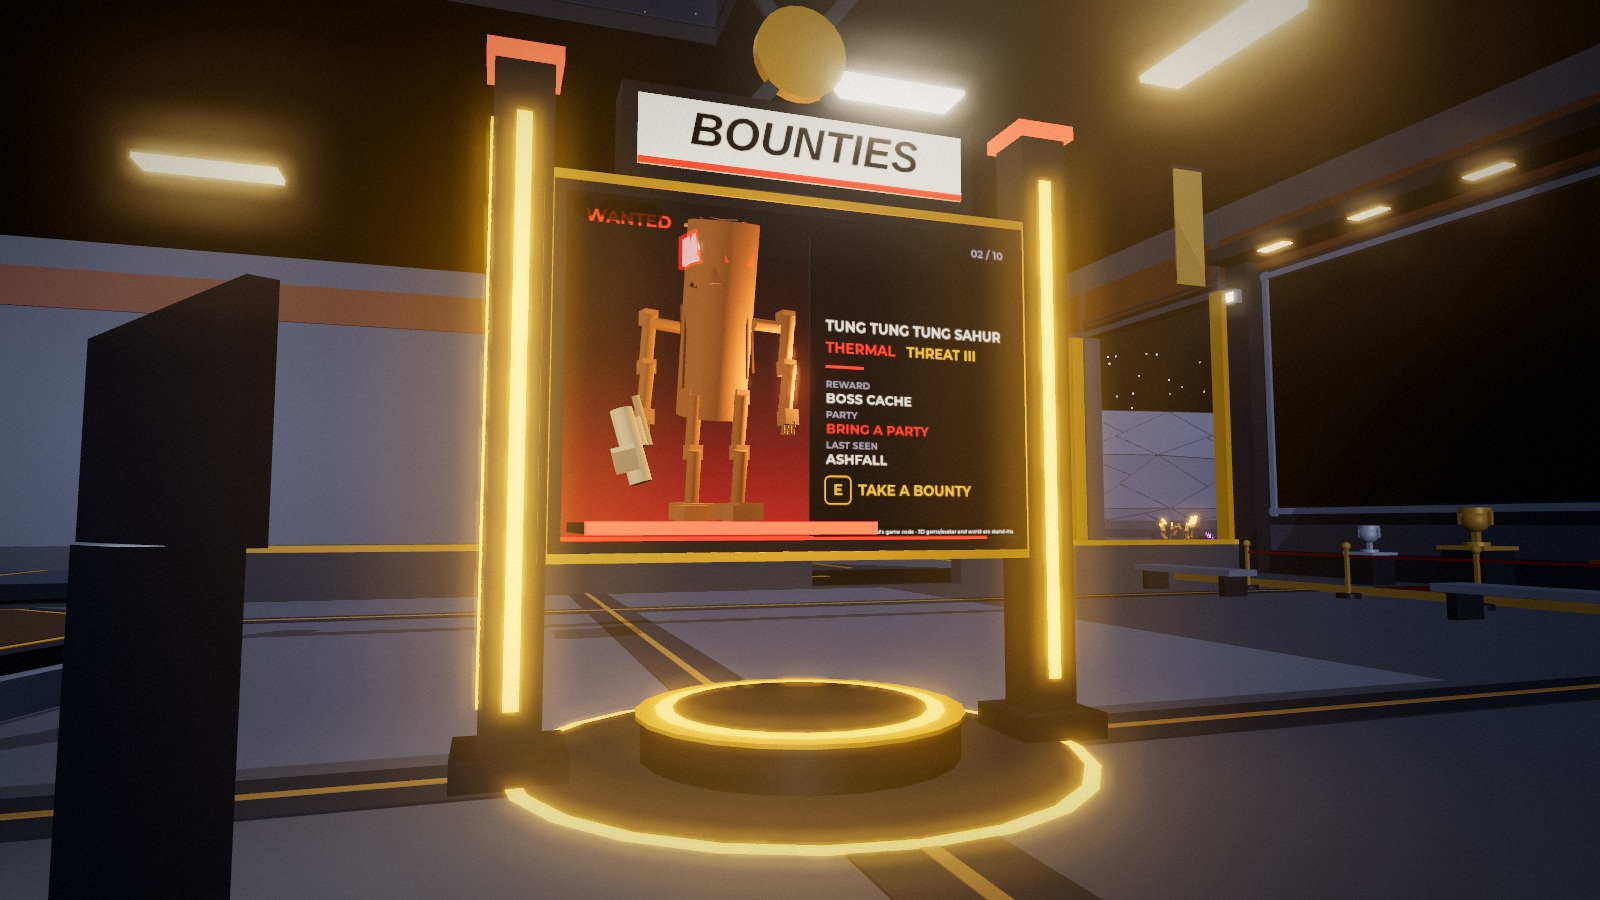
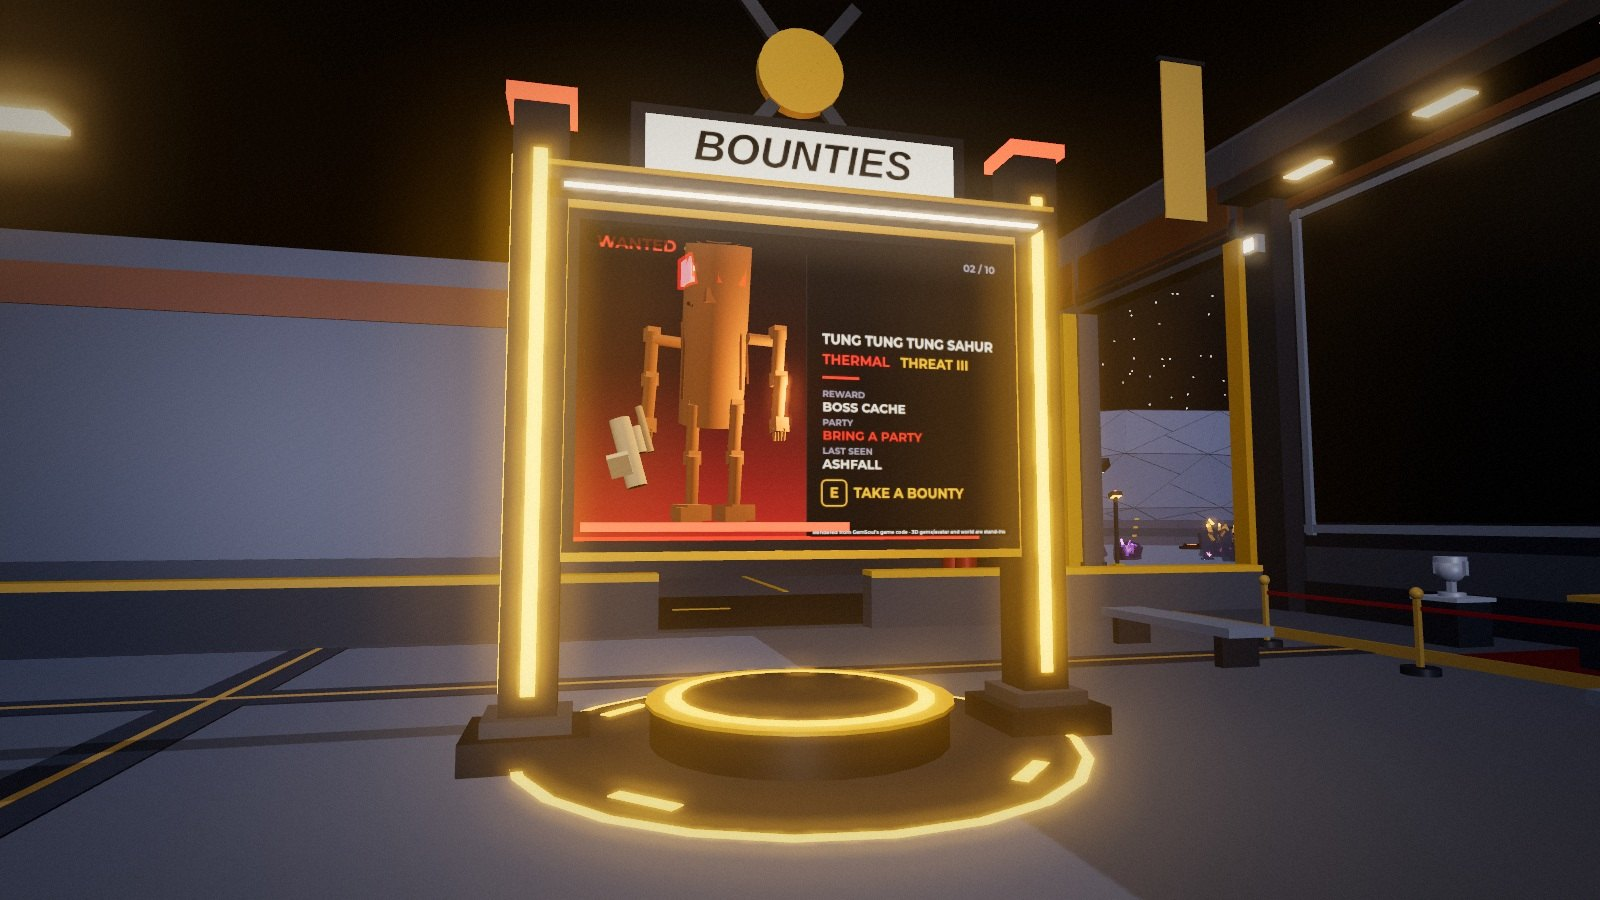
Bounty board: moved to the way in from the garage, 1.3x bigger, a lit visor
The board leaves the band crossing by INFO-9, off to the side of where
players walk in, for the open floor in front of you as you come through
the garage barrier (46, 10 in the Shelter's frame), between the Kennel
and the Hall of Fame, a face to the garage and a face to the main door.
It's built 1.3 times the size (BountyBoard.Scale: the screen 12.5 studs
wide, the boss on its ledge 7 studs tall, its lights' reach with it),
on stepped pylon feet, with a visor over the screen lit along its lip
carrying the BOUNTIES lightbox, and an amber mark at each corner of its
pad. The test checks the new spot, that it's bigger, and that its pad
stays clear of the rope and off the floor's inlay bands.

Claude-Session: https://claude.ai/code/session_01M9AaiFqQ2dWL5tTu8tuKaL

diff --git a/docs/bounty-board.md b/docs/bounty-board.md
@@ -1,11 +1,19 @@
 # The bounty board on the hall floor (2026-10-29)
 
-Out on the Shelter's floor, where the yellow inlay bands cross between the
-Hall of Fame and Brutus's booth, now stands a **double-sided bounty
-board**: a big screen on two lit pylons, a BOUNTIES lightbox and crossed
-blades on top, a glowing amber ring on the floor round its plinth.
+Out on the Shelter's floor, on the way in from the garage between the
+Kennel and the Hall of Fame, stands a **double-sided bounty board**: a big
+screen on two lit pylons, a lit visor over it with a BOUNTIES lightbox and
+crossed blades on top, a glowing amber pad on the floor round its plinth.
 
-![The board on the hall floor, the Hall of Fame behind](bounty-board/hall.jpg)
+*2026-10-29, moved and enlarged.* It used to stand where the inlay bands
+cross by INFO-9, off to the side of where players walk in; it's now right
+in front of you as you come through the garage barrier, a face to the
+garage and a face to the main door. It's 1.3 times the size it was
+(`BountyBoard.Scale`: the screen 12.5 studs wide, the boss on its ledge
+7 studs tall), on stepped pylon feet, with a visor over the screen lit
+along its lip and an amber mark at each corner of its pad.
+
+![The board from the garage side](bounty-board/hall.jpg)
 
 Each face shows **one bounty**, WANTED, and the boss is the point of it:
 
@@ -64,9 +72,10 @@ SurfaceGuis that ignore the hall's lighting (`LightInfluence = 0`), so
 they glow. The server builds every boss's portrait when it starts, so the
 first turn of the board doesn't wait on them.
 
-Its spot (28, 32 in the Shelter's frame) is clear of the Hall of Fame, the
-bounty office, Brutus's booth, the rope, INFO-9, the main door and the
-Kennel: `tests/bounty_board_cases.luau` checks that, and that the faces
-never match.
+Its spot (46, 10 in the Shelter's frame) is clear of the Hall of Fame, its
+rope, the bounty office, Brutus's booth, INFO-9, the main door and the
+Kennel, and its pad stays off the floor's inlay bands:
+`tests/bounty_board_cases.luau` checks that, that it's bigger than the
+first board, and that the faces never match.
 
 Spanish: "Recompensa", "Aceptar una recompensa", "SOLO O EN GRUPO".
